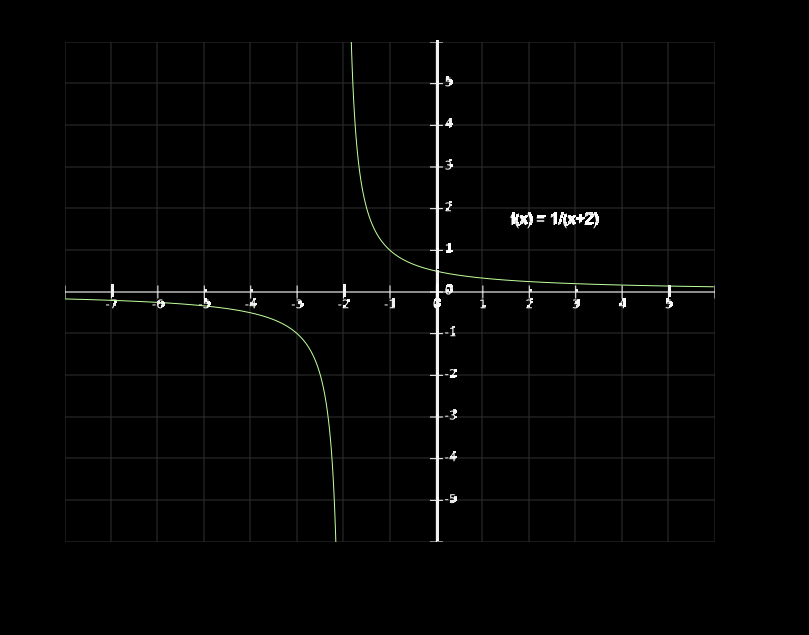
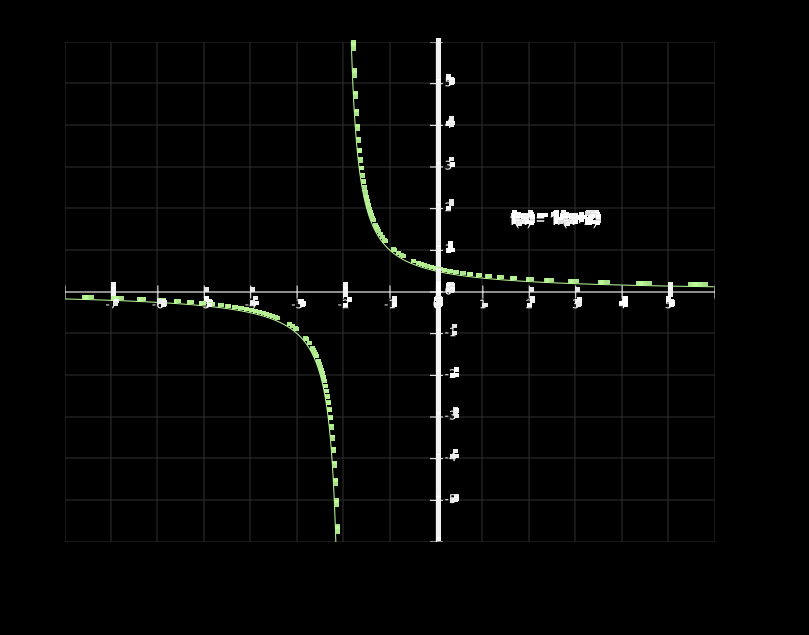
additional test, only 1 image does not work

diff --git a/MyCanvas.java b/MyCanvas.java
@@ -48,7 +48,7 @@ public class MyCanvas extends Canvas{
             */
             
             int count = 0;
-            int letter = text[0].length()-1;
+            int letter = text[0].length() - 1;
             while(text[0].charAt(letter) != '.'){
                 count++;
                 letter--;
@@ -164,7 +164,7 @@ public class MyCanvas extends Canvas{
                 for (int x = 0; x < resizedWidth; x++) {
                     int rgba = resizedImage.getRGB(x, y);
                     Color col = new Color(rgba, true);
-                    if ((col.getRed() < 32) && (col.getGreen() < 32) && (col.getBlue() < 32)){
+                    if ((col.getRed() < 64) || (col.getGreen() < 64)  || (col.getBlue() < 64)){
                         col = new Color(col.getRed(),
                                         col.getGreen(),
                                         col.getBlue());
